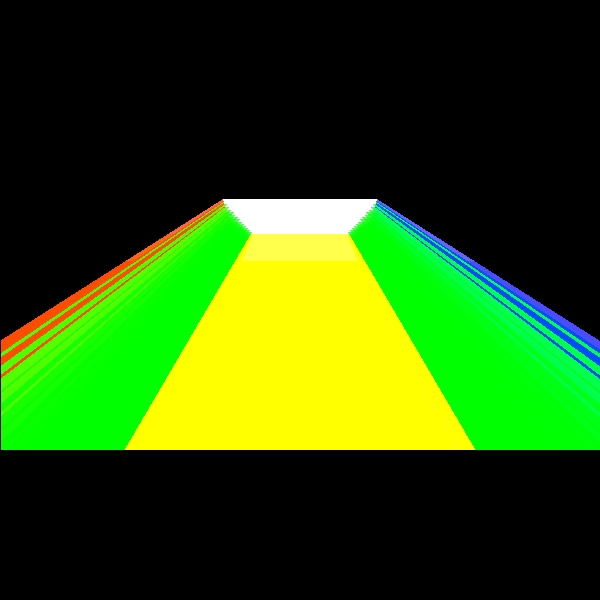
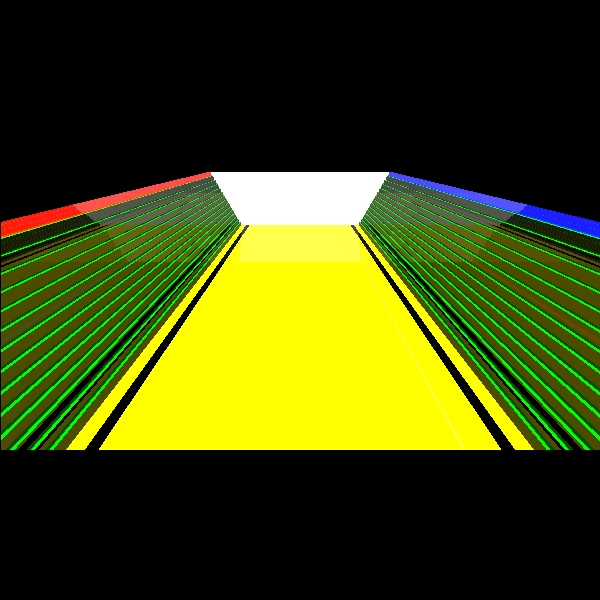
begin stage 5

Changed region(s): [[0.0, 0.27, 1.0, 0.75]]

diff --git a/IME5780-E1-5840-6639/src/unittests/miniProject2.java b/IME5780-E1-5840-6639/src/unittests/miniProject2.java
@@ -17,16 +17,17 @@ import scene.Scene;
 public class miniProject2 {
     @Test
     public void room(){
-        double height = 450;
-        double width = 2000;
-        double length = 2300;
+        double height = 850;
+        double width = 3000;
+        double length = 3300;
+        int tribunsSize = (int)width/10;
         Point3D rightUp = new Point3D(width/2,-length/2,0);
         Point3D rightDown = new Point3D(width/2,length/2,0);
         Point3D leftUp = new Point3D(-width/2,-length/2,0);
         Point3D leftDown = new Point3D(-width/2,length/2,0);
         Material wallsMaterial = new Material(0.5, 0.5, 60,0,0.3);
         Scene scene = new Scene("mini project2");
-        scene.setCamera(new Camera(new Point3D(0, length/2, -height*2), new Vector(0, -1, 1), new Vector(0, -1, -1),2));
+        scene.setCamera(new Camera(new Point3D(0, length/2, -height*1.3), new Vector(0, -1, 1), new Vector(0, -1, -1),2));
         scene.setViewPlaneDistance(50);
         scene.setFocalPlaneDistance(180);
         scene.setBackground(Color.BLACK);
@@ -35,9 +36,17 @@ public class miniProject2 {
         Square rightWall = new Square(new Color(java.awt.Color.BLUE),wallsMaterial,rightDown,rightUp,new Point3D(rightDown.get_x(),rightDown.get_y(),-height));
         Square leftWall = new Square(new Color(java.awt.Color.RED),wallsMaterial,leftDown,leftUp,new Point3D(leftDown.get_x(),leftDown.get_y(),-height));
         Square floor = new Square(new Color(java.awt.Color.YELLOW),wallsMaterial,leftDown,leftUp,rightDown);
-        rightTribune(rightDown,rightUp,300,height, scene);
-        leftTribune(leftDown,leftUp,300,height, scene);
-        scene.addGeometries(forwardWall,rightWall,leftWall,floor);
+        Square[] borders = new Square[4];
+        borders[0] = new Square(Color.BLACK,wallsMaterial,new Point3D(rightUp.get_x()-tribunsSize-80,rightUp.get_y()-50,-1),
+                new Point3D(rightDown.get_x()-tribunsSize-80,rightDown.get_y()+50,-1),
+                new Point3D(rightUp.get_x()-tribunsSize-150,rightUp.get_y()-50,-1));
+        borders[1] = new Square(Color.BLACK,wallsMaterial,new Point3D(leftUp.get_x()+tribunsSize+80,leftUp.get_y()-50,-1),
+                new Point3D(leftDown.get_x()+tribunsSize+80,leftDown.get_y()+50,-1),
+                new Point3D(leftUp.get_x()+tribunsSize+150,leftUp.get_y()-50,-1));
+
+        rightTribune(rightDown,rightUp,tribunsSize,height, scene);
+        leftTribune(leftDown,leftUp,tribunsSize,height, scene);
+        scene.addGeometries(forwardWall,rightWall,leftWall,floor,borders[0],borders[1]);
         ImageWriter imageWriter = new ImageWriter("room", 200, 200, 600, 600);
         Render render = new Render(imageWriter, scene).setMultithreading(3).setDebugPrint();
 
@@ -51,13 +60,18 @@ public class miniProject2 {
         Material tMaterial = new Material(0.5, 0.5, 60,0,0.3);
         int someTribuns = size/20;
         Square[] tribuns = new Square[someTribuns];
-
+        Square[] benchs = new Square[someTribuns];
         for(int i = 0; i < someTribuns; i++) {
             try {
+                Point3D temp = new Point3D(rightUp.get_x() - i * size/someTribuns, rightUp.get_y(), - height + (i * height/someTribuns));
+
                 tribuns[i] = new Square(tColor, tMaterial, new Point3D(rightUp.get_x(), rightUp.get_y(), - height + (i * height/someTribuns)),//
                         new Point3D(rightDown.get_x(), rightDown.get_y(), - height + (i * height/someTribuns)),//
-                        new Point3D(rightUp.get_x() - i * size/someTribuns, rightUp.get_y(), - height + (i * height/someTribuns)));
-                scene.addGeometries(tribuns[i]);
+                        temp);
+                benchs[i] = new Square(Color.BLACK,tMaterial,temp,
+                        tribuns[i].fourthPoint,
+                        new Point3D(rightUp.get_x()- i * size/someTribuns,rightUp.get_y(),- height + ((1+i) * height/someTribuns)));
+                scene.addGeometries(tribuns[i],benchs[i]);
             }
             catch (IllegalArgumentException e){
                 if(e.getMessage() != "zero vector")
@@ -71,13 +85,19 @@ public class miniProject2 {
         Material tMaterial = new Material(0.5, 0.5, 60,0,0.3);
         int someTribuns = size/20;
         Square[] tribuns = new Square[someTribuns];
+        Square[] benchs = new Square[someTribuns];
 
         for(int i = 0; i < someTribuns; i++) {
             try {
+                Point3D temp = new Point3D(leftUp.get_x() + i * size/someTribuns, leftUp.get_y(), - height + (i * height/someTribuns));
+
                 tribuns[i] = new Square(tColor, tMaterial, new Point3D(leftUp.get_x(), leftUp.get_y(), - height + (i * height/someTribuns)),//
                         new Point3D(leftDown.get_x(), leftDown.get_y(), - height + (i * height/someTribuns)),//
-                        new Point3D(leftUp.get_x() + i * size/someTribuns, leftUp.get_y(), - height + (i * height/someTribuns)));
-                scene.addGeometries(tribuns[i]);
+                        temp);
+                benchs[i] = new Square(Color.BLACK, tMaterial, new Point3D(leftDown.get_x() + i * size/someTribuns, leftDown.get_y(), - height + (i * height/someTribuns)),//
+                        new Point3D(leftDown.get_x() + i * size/someTribuns, leftDown.get_y(), - height + ((1+i) * height/( someTribuns))),//
+                        temp);
+                scene.addGeometries(tribuns[i],benchs[i]);
             }
             catch (IllegalArgumentException e){
                 if(e.getMessage() != "zero vector")

diff --git a/IME5780-E1-5840-6639/src/geometries/Square.java b/IME5780-E1-5840-6639/src/geometries/Square.java
@@ -7,13 +7,17 @@ import java.util.List;
 
 public class Square extends Polygon{
     public Triangle tri1, tri2;
+    public Point3D fourthPoint;
     public  Square(Color objColor, Material material, Point3D p1, Point3D p2, Point3D p3){
         super(objColor,  material, p1,p2,p3);
         tri1 = new Triangle(objColor,material,p1,p2,p3);
         Point3D mid = new Point3D((p2.get_x()+p3.get_x())/2,(p2.get_y()+p3.get_y())/2,(p2.get_z()+p3.get_z())/2);
         Vector toP4 = mid.subtract(p1);
-        Point3D p4 = p1.add(toP4.scale(2));
-        tri2 = new Triangle(objColor,material,p2,p3,p4);
+        fourthPoint = p1.add(toP4.scale(2));
+        tri2 = new Triangle(objColor,material,p2,p3,fourthPoint);
+    }
+    public Point3D getFourthPoint(){
+        return fourthPoint;
     }
 
     @Override

diff --git a/IME5780-E1-5840-6639/src/geometries/Geometries.java b/IME5780-E1-5840-6639/src/geometries/Geometries.java
@@ -10,7 +10,7 @@ import java.util.List;
 
 public class Geometries implements Intersectable {  
    /**the list of all the shapes**/ 
-   List<Intersectable> intersectables = new LinkedList<>();
+    List<Intersectable> intersectables = new LinkedList<>();
     /***************constructors***************/
     /**copy C-tor**/
     public Geometries(List<Intersectable> intersectables) {
